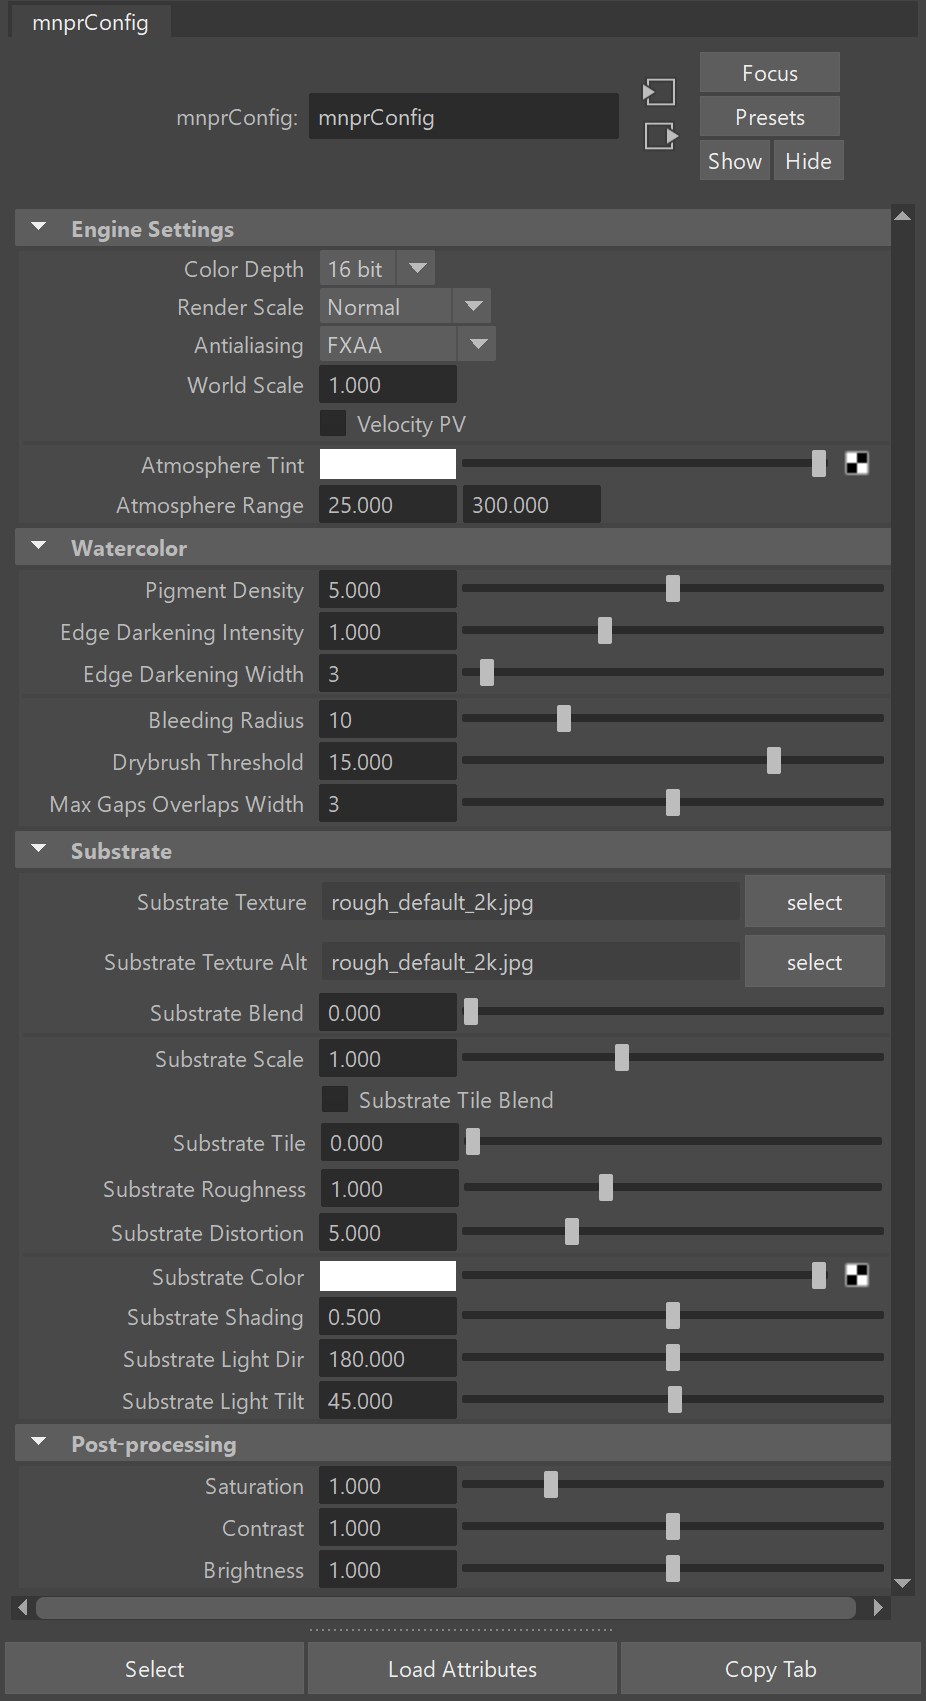
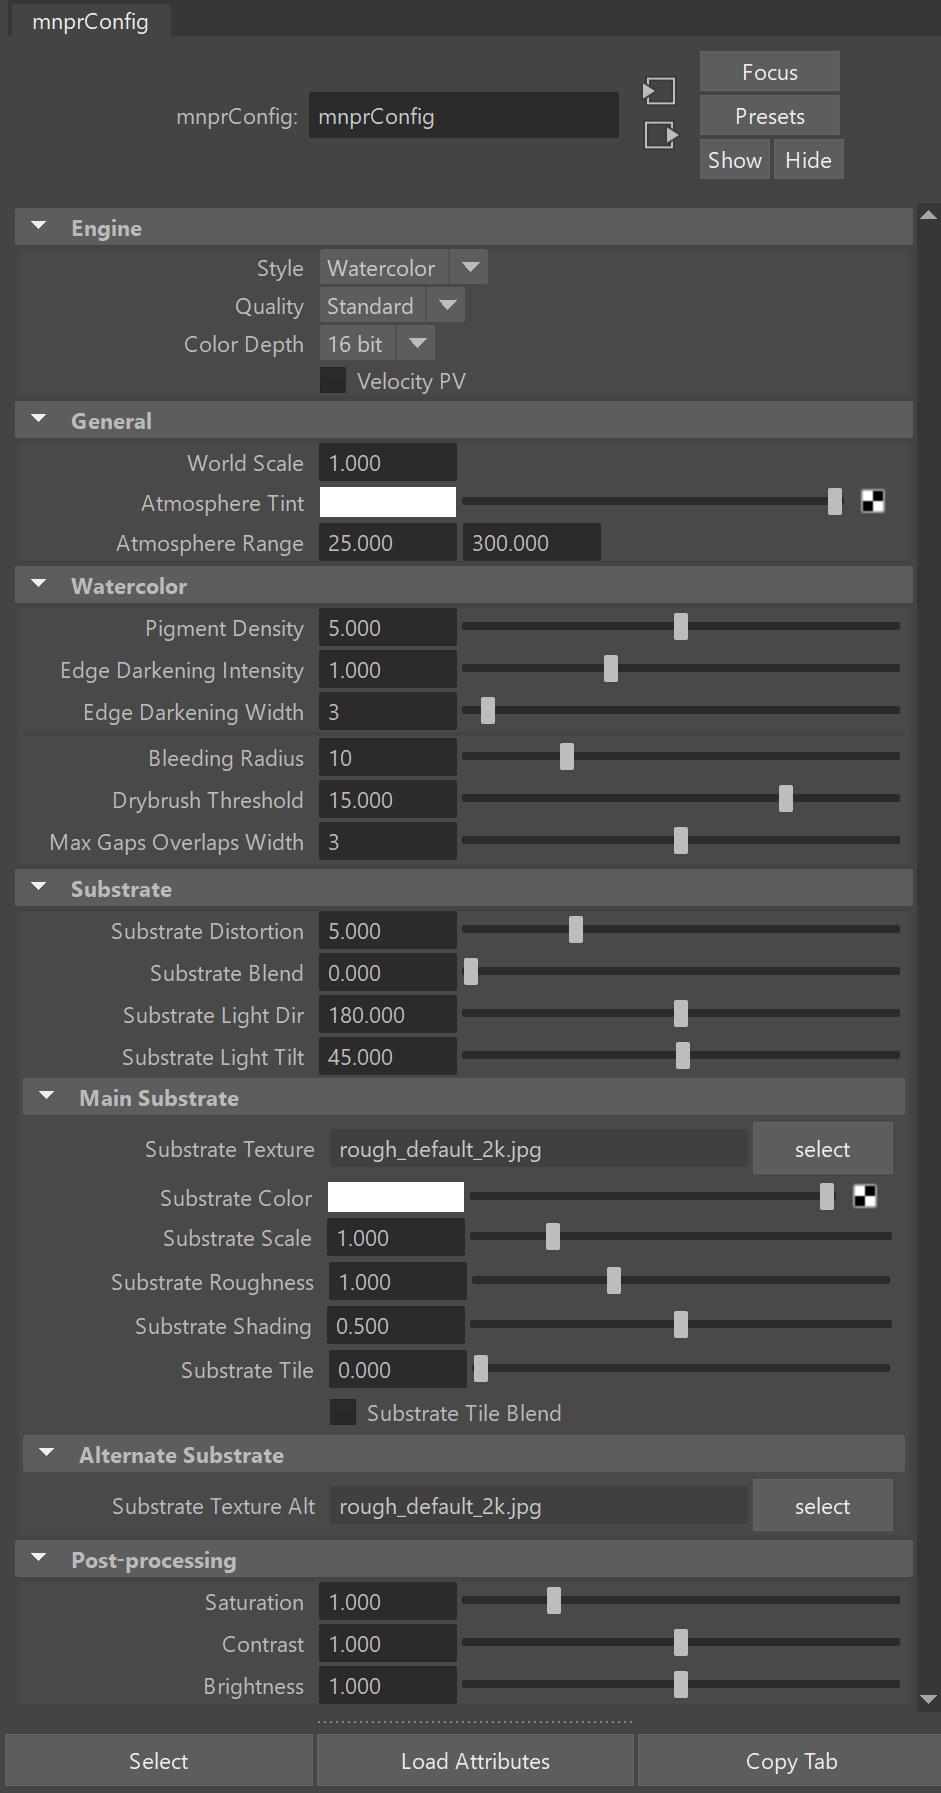
Updated Configuration and Rendering Documentation

diff --git a/_mnprdocs/config.md b/_mnprdocs/config.md
@@ -19,33 +19,33 @@ The style configuration node gets selected when clicking on the `conf` icon in t
 	<figcaption>The configuration node showing all watercolor stylization attributes.</figcaption>
 </figure>
 
-## Engine Settings
-Engine settings remain the same across stylizations and contain attributes directly related to the MNPRX engine. These attributes can change the fidelity and performance of the stylization.
+## Engine
+Engine attributes remain the same across stylizations and contain attributes directly related to the MNPRX engine. These attributes can change the fidelity and performance of the stylization.
 
-### Color Depth
-Defines the color depth of the render targets. This generally translates to: higher is better. However, slower systems should consider using 8bit targets if the performance is too slow, provided you can sacrifice some color fidelity.
+### Style
+Defines the style that MNPRX is currently running in.
+* _Watercolor_ - The classic watercolor stylization that MNPRX is known for
+* _Viewport+_ - A viewport override with all the advantages of MNPRX
 
-### Render Scale
-Defines the resolution at which MNPR is rendering.
-* _Half_ will render at half the size, which will perform faster with slower computers, at the cost of pixilation.
-* _Normal_ will render at the normal viewport resolution.
-* _Double_ will render at twice the size and then reduce the rendered image to fit the viewport. You will have more detail and less aliasing, but make sure to have a powerful computer.
+The more MNPRX matures, the more styles it will support!
 
-{% include aio-hint.html %}You will get better antialiasing and more detail by using the _Render Scale_ attribute instead of _Antialiasing_.
+### Quality
+Defines the quality of the viewport rendering.
+* _Half_ - Render at half the resolution, which will perform faster with slower computers, at the cost of pixilation.
+* _Standard_ - Render at the normal resolution, without any bells and whistles.
+* _FXAA_ - Render at the normal resolution with _Fast Approximate Anti-Aliasing_, giving results with less jaggies (staircase effect).
+* _4x SSAA_ - Render at 4 times the normal resolution, to later bring it back to the normal resolution with _Super Sampling Anti-Aliasing_. You have much more detail and less jaggies (staircase effect).
+* _TAA_ - Renders many images at normal resolution with _Temporal Anti-Aliasing_ to perform progressive, super-sampled results. You will have more detail and **NO** jaggies (staircase effect). Enabling TAA will also show a _TAA Samples_ attribute directly underneath. Within this attribute, you can define the amount of image samples that the _TAA_ quality uses to create the final result.
 
-### Antialiasing
-Defines the algorithm used to perform antialiasing. Antialiasing makes edges appear smoother and less pixelated, you can find more about what aliasing is [here](https://www.youtube.com/watch?v=hqi0114mwtY)
+Anti-aliasing makes edges appear smoother and less pixelated, you can find more about what aliasing is [here](https://www.youtube.com/watch?v=hqi0114mwtY)
 <figure class="pull-center half">
 	<img src="/images/MNPRX/AA1.png" alt="Close-up without antialiasing" style="max-width: 150px">
 	<img src="/images/MNPRX/AA2.png" alt="Close-up with antialiasing" style="max-width: 150px">
-	<figcaption>Close-up of image without and with FXAA antialiasing.</figcaption>
+	<figcaption>Close-up of image at Standard quality and with FXAA quality.</figcaption>
 </figure>
 
-### World Scale
-Defines how many _Maya_ units is considered one meter/cm (normal/miniature) in the virtual world. Since most projects work with assets at different scales, setting up the _World Scale_ right will help the stylization behave correctly.
-
-If your character is supposed to be one meter high in his world, but is actually 5 units high in _Maya_, the _World Scale_ attribute should be set to 5.
-{: .notice--info}
+### Color Depth
+Defines the color depth of the render targets. This generally translates to: higher is better. However, slower systems should consider using 8bit targets if the performance is too slow, provided you can sacrifice some color fidelity.
 
 ### Velocity PV
 Enables the calculation of motion vectors of each object in the scene (per vertex). This helps certain effects to remain motion coherent and avoid the _shower door effect_, albeit with a substantial performance cost. Therefore, this attribute should be activated mainly when rendering the final frames.
@@ -58,6 +58,17 @@ Enables the calculation of motion vectors of each object in the scene (per verte
 </figure>
 
 {% include aio-hint.html %} Big amounts of motion will distort substrate-based effects. It is recommended to refresh the substrate with the _Substrate Tile_ attribute once in a while to reset the substrate texture.
+
+---
+
+## General
+General attributes concern all stylizations and contain general attributes that change the overall result.
+
+### World Scale
+Defines how many _Maya_ units is considered one meter/cm (normal/miniature) in the virtual world. Since most projects work with assets at different scales, setting up the _World Scale_ right will help the stylization behave correctly.
+
+If your character is supposed to be one meter high in his world, but is actually 5 units high in _Maya_, the _World Scale_ attribute should be set to 5.
+{: .notice--info}
 
 ### Atmosphere Tint
 Defines a custom atmospheric perspective color, making things at distance tint towards the specified color.
@@ -133,79 +144,20 @@ Defines the maximum global width of the gaps & overlaps effect.
 -----------
 
 
-## Substrate Attributes
+## Substrate
 Substrate attributes contain the attributes of the texture where paint is applied on, be it paper or canvas. Altering these attributes will affect all effects that depend on the substrate for its stylization.
 
-### Substrate Texture
-Defines the primary texture that is going to be used as the substrate. There is currently a [library](https://researchdata.ntu.edu.sg/dataset.xhtml?persistentId=doi:10.21979/N9/HI7GT7) of 10 different substrate textures to choose from. To create your own substrate textures, compatible with MNPRX, [check out this tutorial](https://mnpr.artineering.io/substrates/extraction-tutorial).
-
-### Substrate Texture Alt
-Defines the alternative texture that is going to be used as the substrate.
+###	Substrate Distortion
+Defines the global amount of distortion caused by the _Substrate Roughness_.
 
 ### Substrate Blend
-Defines the blending between the _Substrate Texture_ and the _Substrate Texture Alt_, allowing you to combine profile properties of different substrates.
+Defines the blending between the _Substrate Texture_ (_Main Substrate_ group) and the _Substrate Texture Alt_ (_Alternate Substrate_ group), allowing you to combine profile properties of different substrates.
 <figure class="pull-center">
 	<video autoplay loop muted playsinline>
 	  <source src="/images/MNPRX/substrate/substrate-blend.mp4" type="video/mp4">
 	</video>
 	<figcaption>Blending between the Substrate Texture (default) and the Substrate Texture Alt (canvas).</figcaption>
 </figure>
-
-###	Substrate Scale
-Defines the scale of the substrate texture. A _Substrate Scale_ of `1` will show the texture at its original size, whereas a _Substrate Scale_ of `2` would make it twice as big.
-
-### Substrate Tile Blend
-Enables to smoothly blend two substrate tiles. That means that the _Substrate Tile_ attribute will smoothly blend the tiles e.g., a _Substrate Tile_ attribute of `1.5` will be a blend of the tile at 1.0 and the tile at 2.0.
-<figure class="pull-center">
-	<video autoplay loop muted playsinline>
-	  <source src="/images/MNPRX/substrate/substrate-tile-blend.mp4" type="video/mp4">
-	</video>
-	<figcaption>Blending between Substrate Tile 1.0 and Substrate Tile 2.0.</figcaption>
-</figure>
-
-### Substrate Tile
-Loads a new substrate tile at every round number i.e., `1.0`, `2.0`, `3.0`.
-<figure class="pull-center">
-	<video autoplay loop muted playsinline>
-	  <source src="/images/MNPRX/substrate/substrate-tile.mp4" type="video/mp4">
-	</video>
-	<figcaption>Switching between Substrate Tile 1.0 and Substrate Tile 2.0, without Substrate Tile Blend.</figcaption>
-</figure>
-
-Loading a new _Substrate Tile_ will present a new texture pattern and reset every substrate-dependent effect.
-{: .notice--info}
-
-###	Substrate Roughness
-Defines the global roughness of the substrate.
-
-<figure class="pull-center">
-	<video autoplay loop muted playsinline>
-	  <source src="/images/MNPRX/substrate/substrate-roughness.mp4" type="video/mp4">
-	</video>
-	<figcaption>Roughness between 0 and 5.0.</figcaption>
-</figure>
-
-_Substrate Roughness_ will affect **all** substrate-based effects.
-{: .notice--warning}
-
-###	Substrate Distortion
-Defines the global amount of distortion caused by the _Substrate Roughness_.
-
-### Substrate Color
-Defines the color of the substrate.
-
-###	Substrate Shading
-Defines the amount of external diffuse shading of the substrate.
-
-<figure class="pull-center">
-	<video autoplay loop muted playsinline>
-	  <source src="/images/MNPRX/substrate/substrate-shading.mp4" type="video/mp4">
-	</video>
-	<figcaption>Substrate Shading between 1.0 and 0.</figcaption>
-</figure>
-
-The shading is caused by the _Substrate Light Dir_ and _Substrate Light Tilt_ attributes.
-{: .notice--info}
 
 ###	Substrate Light Dir.
 Defines the side where the external light is shining from. `0` degrees is from the bottom, `90` degrees is from the left, `180` degrees from the top and `270` degrees is from the right.
@@ -232,6 +184,72 @@ Defines the tilt angle of the external light in relation to the substrate, 90 de
 The effect of this attribute can only be seen if _Substrate Shading_ is more than `0`.
 {: .notice--warning}
 
+## Main Substrate
+Contains the attributes that define the main substrate texture of the stylization.
+
+### Substrate Texture
+Defines the main texture that is going to be used as the substrate. There is currently a [library](https://researchdata.ntu.edu.sg/dataset.xhtml?persistentId=doi:10.21979/N9/HI7GT7) of 10 different substrate textures to choose from. To create your own substrate textures, compatible with MNPRX, [check out this tutorial](https://mnpr.artineering.io/substrates/extraction-tutorial).
+
+### Substrate Color
+Defines the color of the substrate.
+
+###	Substrate Scale
+Defines the scale of the substrate texture. A _Substrate Scale_ of `1` will show the texture at its original size, whereas a _Substrate Scale_ of `2` would make it twice as big.
+
+###	Substrate Roughness
+Defines the global roughness of the substrate.
+
+<figure class="pull-center">
+	<video autoplay loop muted playsinline>
+	  <source src="/images/MNPRX/substrate/substrate-roughness.mp4" type="video/mp4">
+	</video>
+	<figcaption>Roughness between 0 and 5.0.</figcaption>
+</figure>
+
+_Substrate Roughness_ will affect **all** substrate-based effects.
+{: .notice--warning}
+
+###	Substrate Shading
+Defines the amount of external diffuse shading of the substrate.
+
+<figure class="pull-center">
+	<video autoplay loop muted playsinline>
+	  <source src="/images/MNPRX/substrate/substrate-shading.mp4" type="video/mp4">
+	</video>
+	<figcaption>Substrate Shading between 1.0 and 0.</figcaption>
+</figure>
+
+The shading is caused by the _Substrate Light Dir_ and _Substrate Light Tilt_ attributes.
+{: .notice--info}
+
+### Substrate Tile
+Loads a new substrate tile at every round number i.e., `1.0`, `2.0`, `3.0`.
+<figure class="pull-center">
+	<video autoplay loop muted playsinline>
+	  <source src="/images/MNPRX/substrate/substrate-tile.mp4" type="video/mp4">
+	</video>
+	<figcaption>Switching between Substrate Tile 1.0 and Substrate Tile 2.0, without Substrate Tile Blend.</figcaption>
+</figure>
+
+Loading a new _Substrate Tile_ will present a new texture pattern and reset every substrate-dependent effect.
+{: .notice--info}
+
+### Substrate Tile Blend
+Enables to smoothly blend two substrate tiles. That means that the _Substrate Tile_ attribute will smoothly blend the tiles e.g., a _Substrate Tile_ attribute of `1.5` will be a blend of the tile at 1.0 and the tile at 2.0.
+<figure class="pull-center">
+	<video autoplay loop muted playsinline>
+	  <source src="/images/MNPRX/substrate/substrate-tile-blend.mp4" type="video/mp4">
+	</video>
+	<figcaption>Blending between Substrate Tile 1.0 and Substrate Tile 2.0.</figcaption>
+</figure>
+
+## Alternate Substrate
+Contains the attributes that define the alternate substrate texture of the stylization. This group is closed by default, but can be opened by clicking on it.
+
+### Substrate Texture Alt
+Defines the alternate texture that is going to be used as the substrate.
+
+
 -----------
 
 ## Post Processing
@@ -240,5 +258,6 @@ Post Processing attributes contain simple but useful self-explanatory post-proce
 * Contrast
 * Brightness
 
+This group is closed by default, but can be opened by clicking on it.
 
 {% include toc-side %}

diff --git a/_mnprdocs/rendering.md b/_mnprdocs/rendering.md
@@ -8,11 +8,82 @@ comments: true
 schema:
 ---
 
-## Render View Renderer
+Rendering with MNPRX is a breeze compared to rendering with offline renderers, as every frame is calculated in real-time! In fact, computers normally take longer to save image files to disk than to render them.
+{: .top2}
+
+There are many ways to get images out of _Maya_, but we strongly recommend the tools that we have developed to get the best and most consistent results, the _Viewport Renderer_ (`rendr` icon in the _[MNPRX shelf](../shelf)_) and the _Target Sequence Renderer_ (`tSeq` icon  in the _[MNPRX shelf](../shelf)_). These two tools will allow you to render images of up to 16K resolution  (16384×16384) with a graphics card supporting it.
+
+<figure class="align-right">
+	<img src="/images/MNPRX/rendr.png" alt="Viewport Renderer"  style="width: 300px">
+	<figcaption>The Viewport Renderer captures frames and creates playblast.</figcaption>
+</figure>
+
 
 ## Viewport Renderer
+The _Viewport Renderer_ is a simple tool to render images and videos, divided into two sections: _Frame Capture_ (save image) and _Quick Playblasts_ (save video).
+
+### Frame capture
+The upper section of the _Viewport Renderer_ contains all options to capture a frame (image).
+
+On the left side, you can define a custom resolution to render at. If left unchecked, the viewport resolution will be taken into consideration when rendering.
+
+On the right side, you can find the settings to render with.
+* _Quality_ - Defines the quality of the viewport rendering and correlates with the [quality settings of the configuration node](/projects/MNPRX/docs/config/#quality). _TAA_ gives the best visual quality and is the default in the _Indie_ and _Studio_ licenses of _MNPRX_.
+* _Alpha_ - Defines how the alpha (transparency) is handled in the rendered frames. The options are _None_ (no alpha), _Linear_ (linear alpha) and _Premult._ (premultiplied alpha).
+* _Format_ - Defines the image file format to save the image as i.e., _.png, .jpg, .exr, .tif, .iff_.
+
+_.exr_ images will be in linear space, so you will have to do the gamma correction yourself for the results to look as they appear in _MNPRX_.
+{: .notice--info}
+
+The `Render` button will capture/render the frame in the directory you specify.
+
+### Quick Playblast
+The lower section of the _Viewport Renderer_ contains all options to create a quick playblast (video).
+
+On the left side, you can define where to get the playblast resolution from. _From Viewport_ will get the viewport resolution to playblast with. _From Render Settings_ will get the [_Render Settings_](https://knowledge.autodesk.com/support/maya/learn-explore/caas/CloudHelp/cloudhelp/2019/ENU/Maya-Rendering/files/GUID-59DFB8B7-776B-4243-B404-A3D602FF8CFD-htm.html) resolution to playblast with.  
+
+On the right side, you can find the settings to playblast with.
+* _Quality_ - Defines the quality of the viewport rendering and correlates with the [quality settings of the configuration node](/projects/MNPRX/docs/config/#quality). _4x SSAA_ gives the best visual quality within playblasts and is the default in the _Indie_ and _Studio_ licenses of _MNPRX_. To use _TAA_ quality, you'll have to render an image sequence with the [_Target Sequence Renderer_](/projects/MNPRX/docs/rendering/#target-sequence-renderer) tool and create the video yourself.
+* _Format_ - Defines the video file format to save the playblast as i.e., _.avi, .mov (qt)_. The video file format will depend on what codecs your computer currently supports.
+
+The `Playblast` button will playblast the video in the directory you specify.
+
+
+<figure class="align-right">
+	<img src="/images/MNPRX/tSeq.png" alt="Target Sequence Renderer"  style="width: 500px">
+	<figcaption>The Target Sequence Renderer saves image sequences of any MNPRX target.</figcaption>
+</figure>
 
 ## Target Sequence Renderer
+The _Target Sequence Renderer_ is a tool that allows to easily render any target/s as image sequences. The tool itself is divided into three sections: _Directory_, _Targets_ and _Settings_.
 
-P.S. Coming soon...
-{: .top2}
+### Directory
+The upper section of the _Target Sequence Renderer_ allows you to specify where the image sequence is going to be saved in. By default, your current project's directory will be set, but you can define any directory by clicking on the `Browse` button and navigating to your desired path.
+
+### Targets
+The left section outlines all internal targets available to render. By default, all targets that are required to replicate the stylization in a compositing application are pre-selected. This allows you to have the same stylization in, for example, _Nuke_ and have complete freedom to push the look further in _comp_. We've already replicated the [watercolor stylization in _Nuke_](/projects/MNPRX/docs/watercolor-nuke/), but the ability to export MNPRX's internal targets will become especially relevant in the future (we have big plans for this, stay tuned!).
+
+Internal render targets (all except _outputTarget_) should be exported as _.exr_ to preserve the embedded linear floating data of each image.
+{: .notice--info}
+
+When exporting the _outputTarget_, all other targets will automatically be disabled and the _Render settings_ on the right section will be enabled. The _quality_ and _alpha_ can only be modified for the _outputTarget_.
+
+### Settings
+The right section of the _Target Sequence Renderer_ allows you to define all the sequence render settings. By default, the name will be that of your scene, but you can customize it however you want.
+
+**Folder structure** defines the folders that will be created within the directory. By default, only a name folder will be created. Additional folders can be created, if desired, for each camera and target that you render. The hierarchy will look something like this `directory/name/camera/target/image.ext`.
+
+**Render settings** allow you to customize the _quality_, _alpha_ and _format_ of the image sequence. It works in the same way as the [Viewport Renderer](/projects/MNPRX/docs/rendering/#frame-capture)'s _Frame Capture_ settings.
+* _Quality_ - Defines the quality of the render and correlates with the [quality settings of the configuration node](/projects/MNPRX/docs/config/#quality). _TAA_ gives the best visual quality and is the default in the _Indie_ and _Studio_ licenses of _MNPRX_.
+* _Alpha_ - Defines how the alpha (transparency) is handled in the rendered image sequence. The options are _None_ (no alpha), _Linear_ (linear alpha) and _Premult._ (premultiplied alpha).
+* _Format_ - Defines the image file format to save the image sequence as i.e., _.png, .jpg, .exr, .tif, .iff_.
+
+**Resolution** allows you to define a custom resolution to render with. You can specify the width and height individually up to 16384 pixels, if your graphics card supports it. A dedicated GPU should be able to render images of up to 8K without much trouble.
+
+**Frame range** defines the start and end of the target sequence in the timeline.
+
+**Camera views** outlines the available cameras in the scene and allows you to select which views you want to render the sequence through. By default, all cameras set as 'renderable' in _Maya_'s [_Render Settings_](https://knowledge.autodesk.com/support/maya/learn-explore/caas/CloudHelp/cloudhelp/2019/ENU/Maya-Rendering/files/GUID-59DFB8B7-776B-4243-B404-A3D602FF8CFD-htm.html) will be selected.
+
+The `Render targets` button will start rendering the target sequence with the settings you specified. You can cancel the sequence render anytime by hitting on `cancel` within the render progress dialog.
+
+{% include toc-side %}

diff --git a/_mnprdocs/index.md b/_mnprdocs/index.md
@@ -19,7 +19,7 @@ As MNPRX continues to grow, it has become indispensable to document all its func
 
 <div class="doc-element" markdown="1">
 ## Basics
-### [Installation](installation)
+### [Installation](installation) {% include aio-new.html %}
 ### [Updating MNPRX](update)
 ### [MNPRX Shelf](shelf)
 </div>
@@ -27,8 +27,8 @@ As MNPRX continues to grow, it has become indispensable to document all its func
 <div class="doc-element" markdown="1">
 ## Styles
 ### [Presets](style-presets)
-### [Configuration](config)
-### [Import/Export](import-export) {% include aio-new.html %}
+### [Configuration](config) {% include aio-new.html %}
+### [Import/Export](import-export)
 </div>
 
 <div class="doc-element" markdown="1">
@@ -40,16 +40,16 @@ As MNPRX continues to grow, it has become indispensable to document all its func
 
 <div class="doc-element" markdown="1">
 ## Art-direction
-### [Basics](art-direction) {% include aio-wip.html %}
-### [NoiseFX](noiseFX) {% include aio-wip.html %}
-### [PaintFX](paintFX) {% include aio-wip.html %}
+### [Basics](art-direction) {% include aio-new.html %}
+### [NoiseFX](noiseFX) {% include aio-new.html %}
+### [PaintFX](paintFX) {% include aio-new.html %}
 </div>
 
 <div class="doc-element" markdown="1">
 ## Rendering
-### [Rendering](rendering) {% include aio-wip.html %}
-### [External Renderer](external-renderers) {% include aio-wip.html %}
-### [MNPRX Toolbox](toolbox) {% include aio-wip.html %}
+### [Rendering](rendering) {% include aio-new.html %}
+### [External Renderer](external-renderers) {% include aio-new.html %}
+### [MNPRX Toolbox](toolbox) {% include aio-new.html %}
 </div>
 
 <div class="doc-element" markdown="1">
@@ -65,4 +65,4 @@ As MNPRX continues to grow, it has become indispensable to document all its func
 </div>
 
 
-I would be happy to include further documentation in this website, so do not hesitate to [contact me](/about) if you wish to have further clarification on certain features.
+We would be happy to include further documentation in this website, so do not hesitate to [contact us](/about) if you wish to have further clarification on certain features.

diff --git a/_mnprdocs/import-export.md b/_mnprdocs/import-export.md
@@ -12,7 +12,7 @@ Importing/exporting the stylization is crucial in professional production workfl
 {: .top2}
 
 <figure class="align-center">
-	<img src="/images/MNPRX/MNPRX-Toolbox.png" alt="MNPRX Toolbox" style="width:300px;">
+	<img src="/images/MNPRX/tbox.png" alt="MNPRX Toolbox" style="width:300px;">
 	<figcaption>The MNPRX Toolbox contains a growing set of useful tools for production.</figcaption>
 </figure>
 
